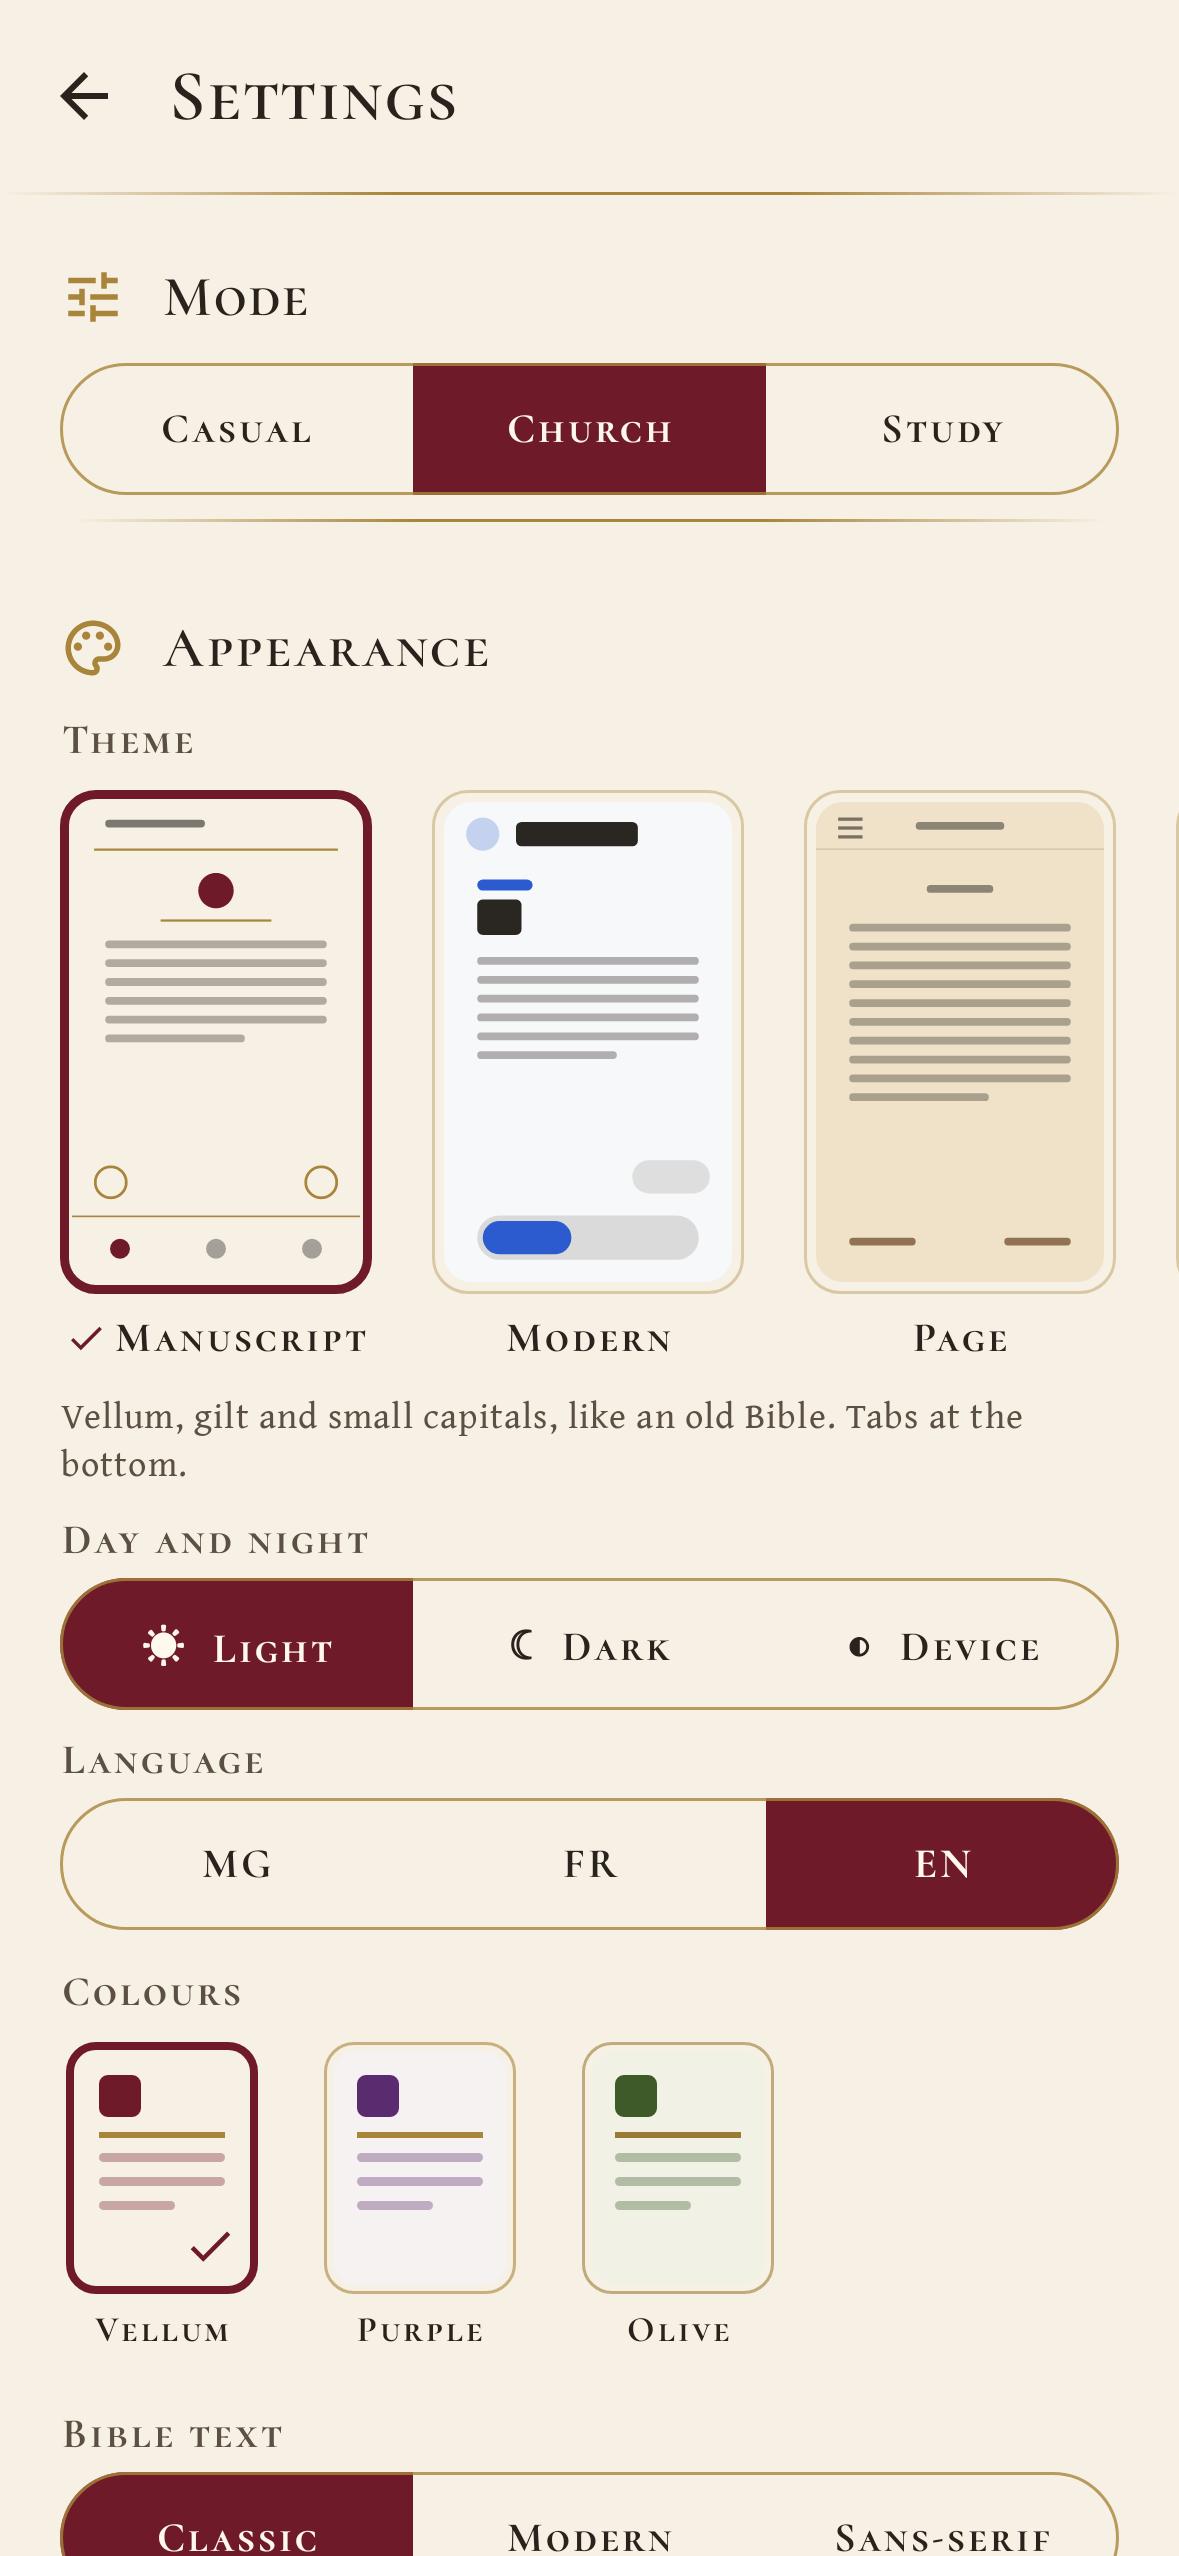
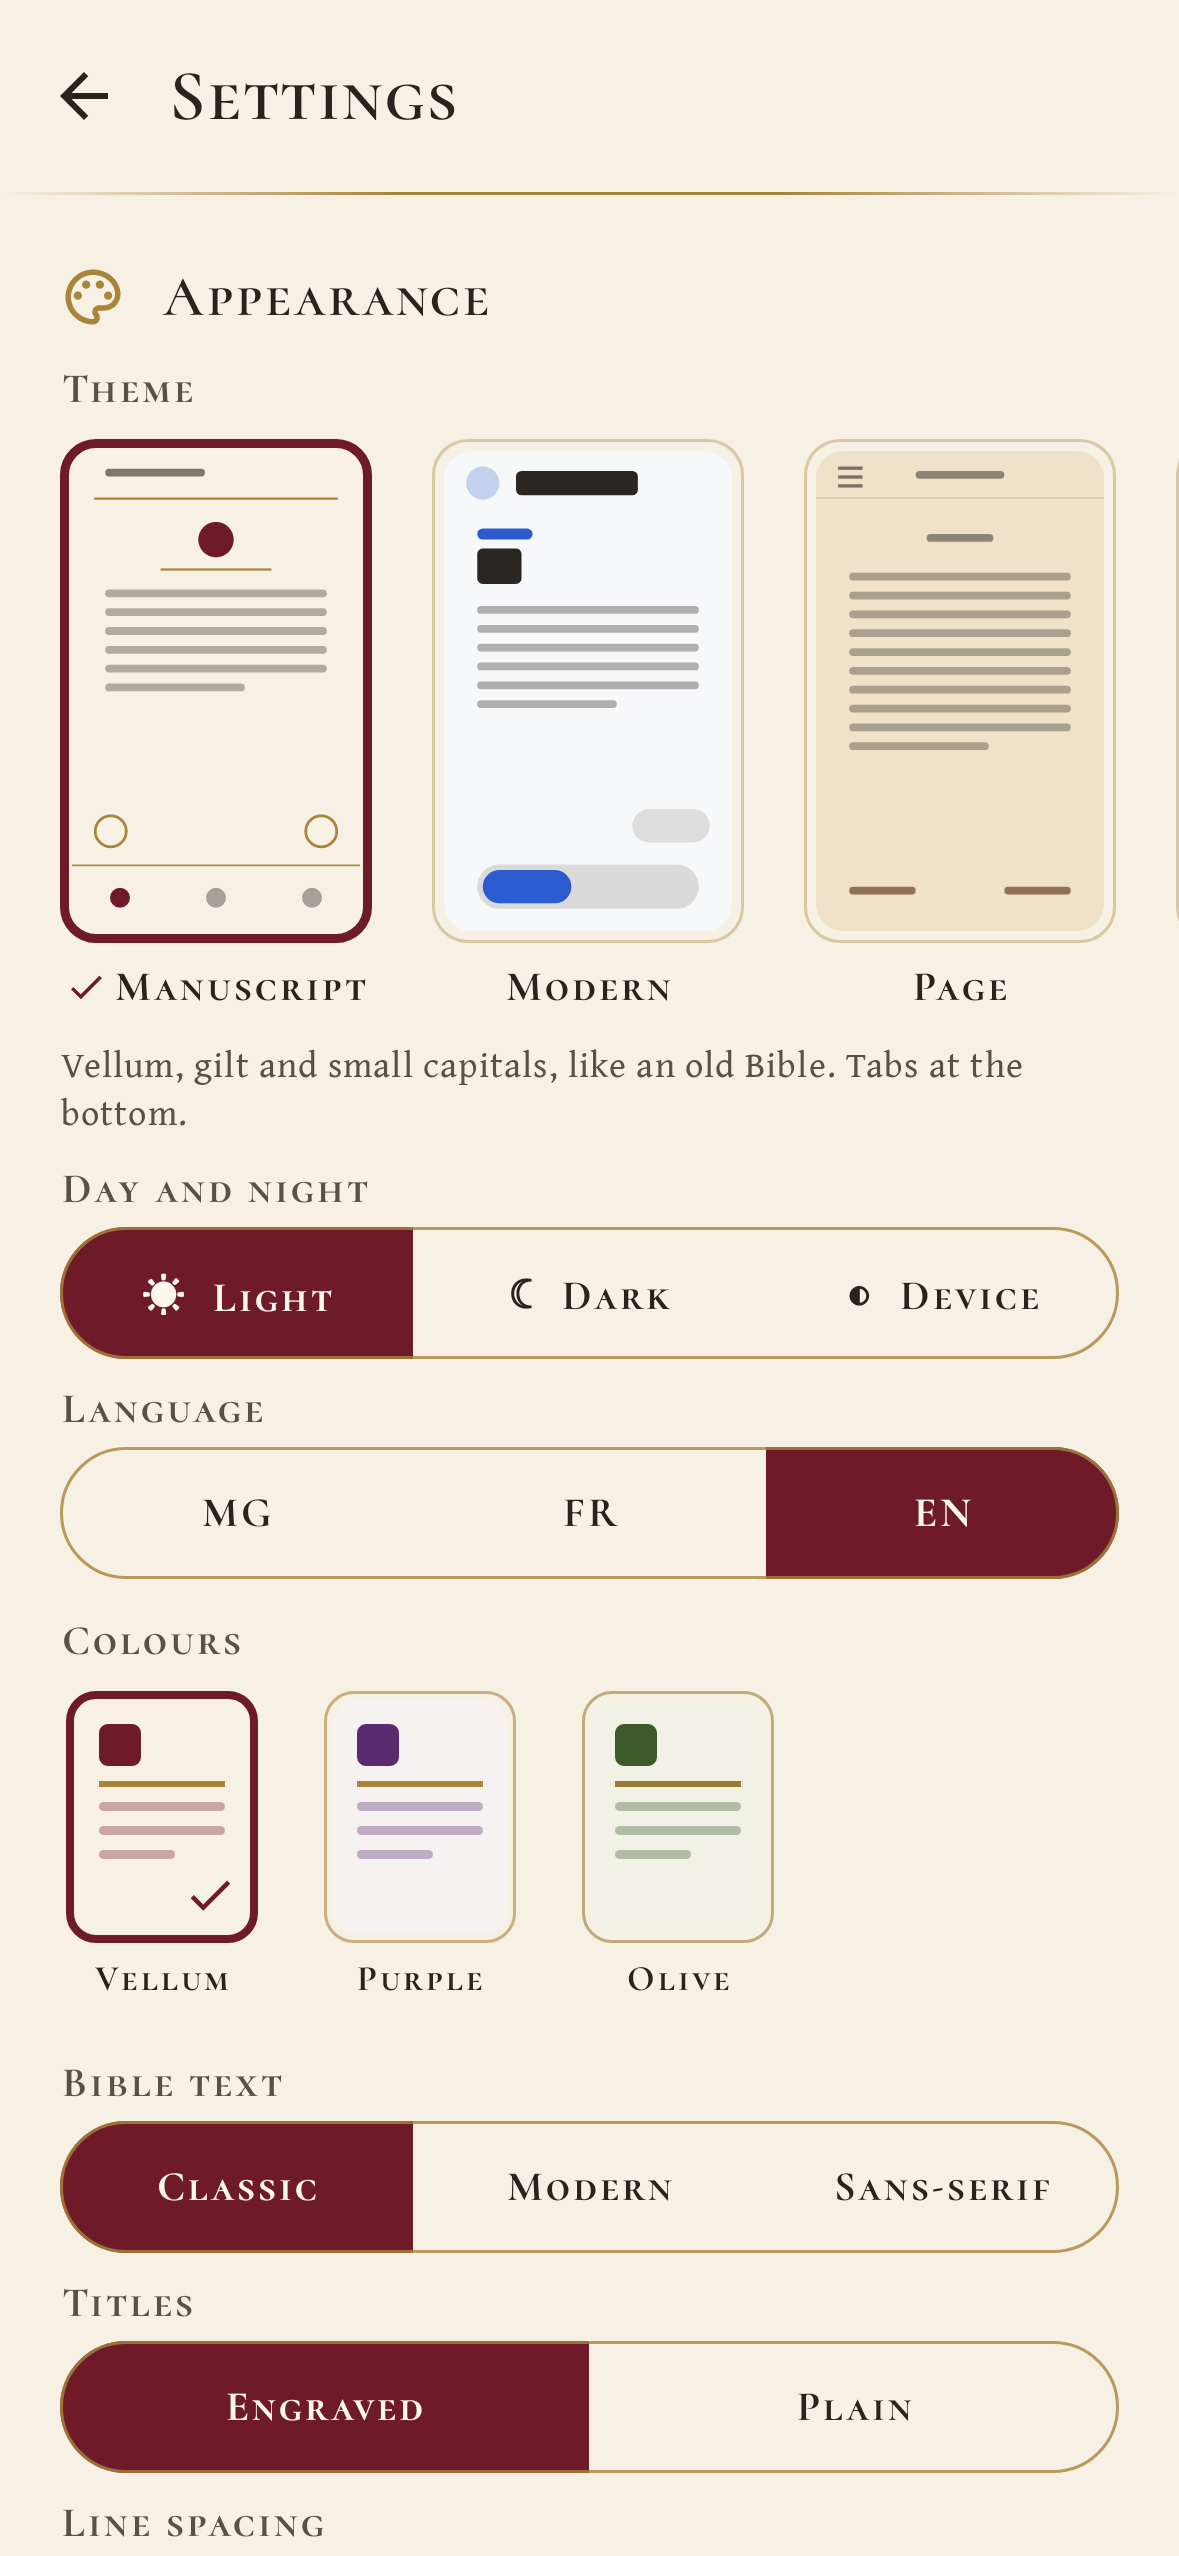
Release 1.4.1: Close instead of Amen; no Mode entry in Settings
The What's new button reads Close (Fermer, Hidio): a liturgical word was
out of place on an ordinary button. Settings drops its Mode group: the
badge at the top left of every main page changes the mode, and the Page
theme keeps its choice at the top of the menu. Version 1.4.1, a What's
new item (en/fr/mg), release notes and the Settings screenshots.

Claude-Session: https://claude.ai/code/session_01RnUt5oDyTYTFx2j9a35J15

diff --git a/app/src/main/kotlin/mg/baiboly/app/ui/Screens.kt b/app/src/main/kotlin/mg/baiboly/app/ui/Screens.kt
@@ -52,7 +52,6 @@ import androidx.compose.runtime.getValue
 import androidx.compose.runtime.mutableStateOf
 import androidx.compose.runtime.remember
 import androidx.compose.runtime.setValue
-import androidx.compose.material.icons.outlined.Tune
 import androidx.compose.material.icons.outlined.Palette
 import androidx.compose.material.icons.outlined.AutoStories
 import androidx.compose.material.icons.outlined.Headphones
@@ -60,7 +59,6 @@ import androidx.compose.material.icons.outlined.SettingsBackupRestore
 import androidx.compose.material.icons.outlined.Info
 import androidx.compose.material.icons.outlined.ExpandMore
 import androidx.compose.material.icons.outlined.ExpandLess
-import mg.baiboly.app.AppMode
 import mg.baiboly.app.Tradition
 import mg.baiboly.app.Palette
 import mg.baiboly.app.TextFont
@@ -456,16 +454,6 @@ fun SettingsScreen(vm: AppViewModel) {
     var advanced by remember { mutableStateOf(false) }
     var open by androidx.compose.runtime.saveable.rememberSaveable { mutableStateOf<String?>(null) }
     val groups = listOf(
-        SettingsGroup("mode", Icons.Outlined.Tune, stringResource(R.string.mode)) {
-            Column(Modifier.padding(horizontal = 20.dp)) {
-                ChoiceRow(
-                    label = "",
-                    options = AppMode.entries.map { it to it.label() },
-                    selected = vm.mode,
-                    tag = "settings-mode",
-                ) { vm.changeMode(it); vm.screen = Screen.Settings }
-            }
-        },
         SettingsGroup("look", Icons.Outlined.Palette, stringResource(R.string.appearance)) { AppearanceSettings(vm) },
         SettingsGroup("bible", Icons.Outlined.AutoStories, stringResource(R.string.default_bible)) { DefaultBibleSettings(vm) },
         SettingsGroup("audio", Icons.Outlined.Headphones, stringResource(R.string.read_aloud)) { ReadAloudSettings(vm) },

diff --git a/app/src/test/kotlin/mg/baiboly/app/UiAcceptanceTest.kt b/app/src/test/kotlin/mg/baiboly/app/UiAcceptanceTest.kt
@@ -374,13 +374,13 @@ class UiAcceptanceTest {
         ready()
         vm.showWhatsNew = true
         waitFor { rule.onAllNodesWithTag("whats-new").fetchSemanticsNodes().isNotEmpty() }
-        rule.onNodeWithText("Amen").assertIsDisplayed()
+        rule.onNodeWithText("Close").assertIsDisplayed()
         val items = UiLanguage.wrap(rule.activity, "en").resources.getStringArray(R.array.whats_new_items)
         val last = items.last()
         tag("whats-new-list").performScrollToNode(hasText(last))
         rule.onNodeWithText(last).assertIsDisplayed()
-        rule.onNodeWithText("Amen").assertIsDisplayed()
-        rule.onNodeWithText("Amen").tap()
+        rule.onNodeWithText("Close").assertIsDisplayed()
+        rule.onNodeWithText("Close").tap()
         waitFor { !vm.showWhatsNew }
     }
 

diff --git a/docs/release-notes.md b/docs/release-notes.md
@@ -1,7 +1,14 @@
-## Baiboly 1.4.0
+## Baiboly 1.4.1
 
 **Install:** download the APK below and open it on the phone (allow installing from this source when asked).
 Updates install over the app and keep your lists, notes, highlights and settings.
+
+**Changed in 1.4.1**
+
+* The button that closes *What's new* now reads *Close* (*Fermer*, *Hidio*).
+* Settings no longer has its own *Mode* entry: the badge at the top left of the reading screen changes the mode (in the Page theme, the top of the menu).
+
+**New in 1.4.0**
 
 * **Verses as paragraphs:** Settings › Appearance › Verses › *Paragraphs* sets the text as running paragraphs, like a printed Bible, with small gilt verse numbers. *One per line* stays the default.
   * Tapping a verse, its number or its note mark, selection, highlights and reading aloud work as before.
